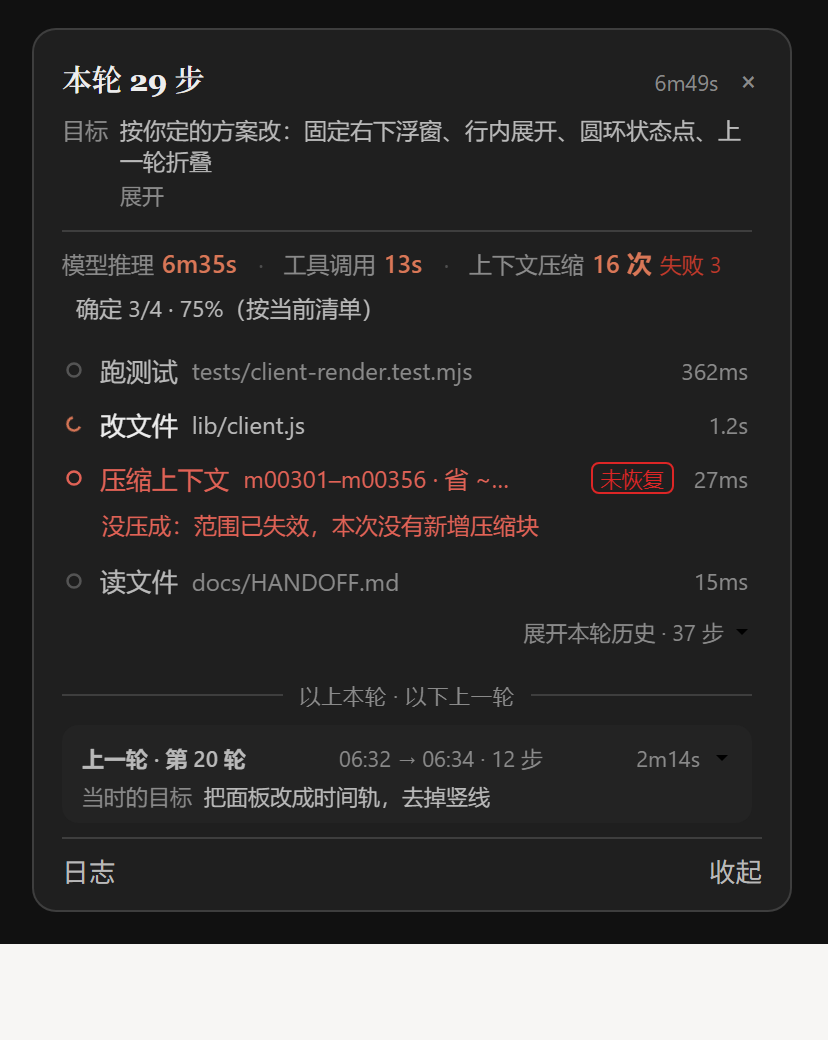
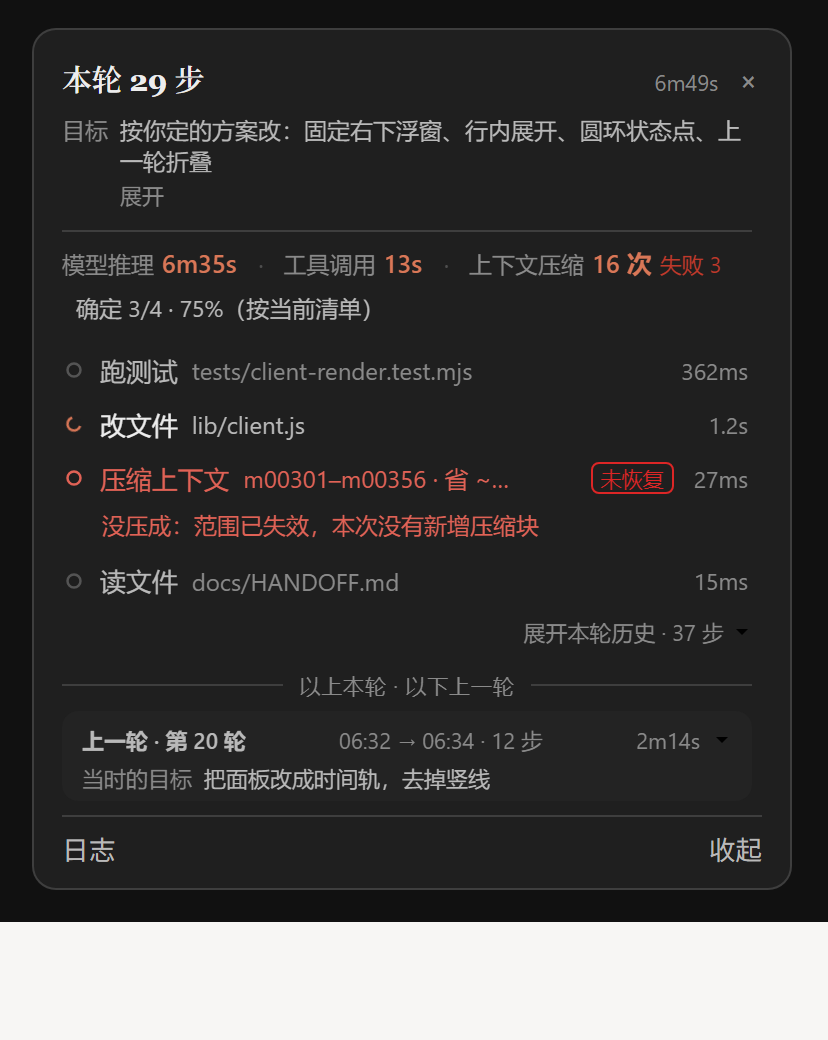
0.4.12：动作行恢复人话动作，说明只进悬停与展开；收窄上一轮分隔
- 撤销 0.4.10 的「description 优先」：它让重启后的整份历史显示成同一句「执行命令」
- 搜索类命令的正则碎片（%-14s）不再当提示，退回文件名
- 上一轮分隔 margin 14/8 → 9/6、区块 padding 8/6 → 6/4
- README 截图重出；测试 66 项

diff --git a/lib/client.js b/lib/client.js
@@ -907,7 +907,10 @@ window.__ModuleLoader__.load({
       }
       if (/\b(?:grep|rg|Select-String)\b/i.test(flat)) {
         // 搜什么：引号里的关键词最准确，没有就取第一个操作数。
-        return { key: "search", hint: pieces.quoted[0] || subjectOf(pieces, /^(?:grep|rg|Select-String)$/i, false) };
+        // 带正则/格式符的片段（%-14s、[^x]* 这类）当提示反而像乱码，宁可不写。
+        const wanted = pieces.quoted[0] || subjectOf(pieces, /^(?:grep|rg|Select-String)$/i, false) || "";
+        const readable = /[%^$[\]()*+?|\\]/.test(wanted) ? base : wanted;
+        return { key: "search", hint: readable };
       }
       if (/\b(?:cat|head|tail|less|type|Get-Content)\b/i.test(flat)) return { key: "read", hint: base || subjectOf(pieces, /^(?:cat|head|tail|less|type|Get-Content)$/i, false) };
       if (/\b(?:sed|awk|tr|cut|perl)\b/i.test(flat)) return { key: "text", hint: base || subjectOf(pieces, /^(?:sed|awk|tr|cut|perl)$/i, false) };
@@ -1034,9 +1037,8 @@ window.__ModuleLoader__.load({
       const kind = entry.targetKind ?? (entry.kind === "call" ? undefined : entry.kind);
       const detail = targetLabel({ target: entry.target, kind });
       if (SHELL_TOOLS.has(lowered)) {
-        if (typeof entry.description === "string" && entry.description.trim()) {
-          return { key: "run", detail: entry.description };
-        }
+        // 先给能看出差别的动作（跑测试 / 跑脚本 / 执行命令），宿主说明只进悬停与展开：
+        // 一律用说明会让历史变成一屏相同的「执行命令」。
         const plan = commandPlan(typeof entry.target === "string" ? entry.target : "");
         return { key: plan.key, detail: plan.hint };
       }
@@ -1368,12 +1370,12 @@ window.__ModuleLoader__.load({
 .dws-log-note { padding-top: 6px; font-size: 10.5px; color: var(--dsw-alias-label-tertiary, #9aa0a8); }
 .dws-log-toggle[aria-pressed="true"] { color: var(--dsw-alias-label-primary, #1f2329); }
 .dws-prev-sep {
-  display: flex; align-items: center; gap: 8px; margin: 14px 0 8px;
+  display: flex; align-items: center; gap: 8px; margin: 9px 0 6px;
   font-size: 10.5px; letter-spacing: .04em; color: var(--dsw-alias-label-tertiary, #9aa0a8);
 }
 .dws-prev-sep::before, .dws-prev-sep::after { content: ""; flex: 1 1 auto; height: 1px; background: var(--dsw-alias-border-l1, rgba(127,127,127,.3)); }
 .dws-prev {
-  padding: 8px 10px 6px;
+  padding: 6px 10px 4px;
   border-radius: 8px;
   background: var(--dsw-alias-bg-layer-1, rgba(127,127,127,.07));
   color: var(--dsw-alias-label-tertiary, #9aa0a8);

diff --git a/CHANGELOG.md b/CHANGELOG.md
@@ -1,3 +1,10 @@
+## 0.4.12 — 2026-10-26
+
+- 动作行恢复按命令本身说人话（跑测试 / 跑脚本 / 找代码 / 改文件…）；宿主 description 只放悬停与展开，不再顶掉动作名——上一版重启后整份历史都显示成「执行命令」。
+- 搜索类命令不再把正则碎片（%-14s 之类）当提示，退回被搜的文件名。
+- 收紧「以上本轮 · 以下上一轮」分隔：分隔行 margin 14/8 → 9/6，上一轮区块 padding 8/6 → 6/4。
+- README 截图按当前界面重出。
+
 ## 0.4.11 — 2026-10-26
 
 - 本轮列表固定显示 4 条（含进行中的那一步）：思考、工具执行、已结束三种状态下行数一致。
